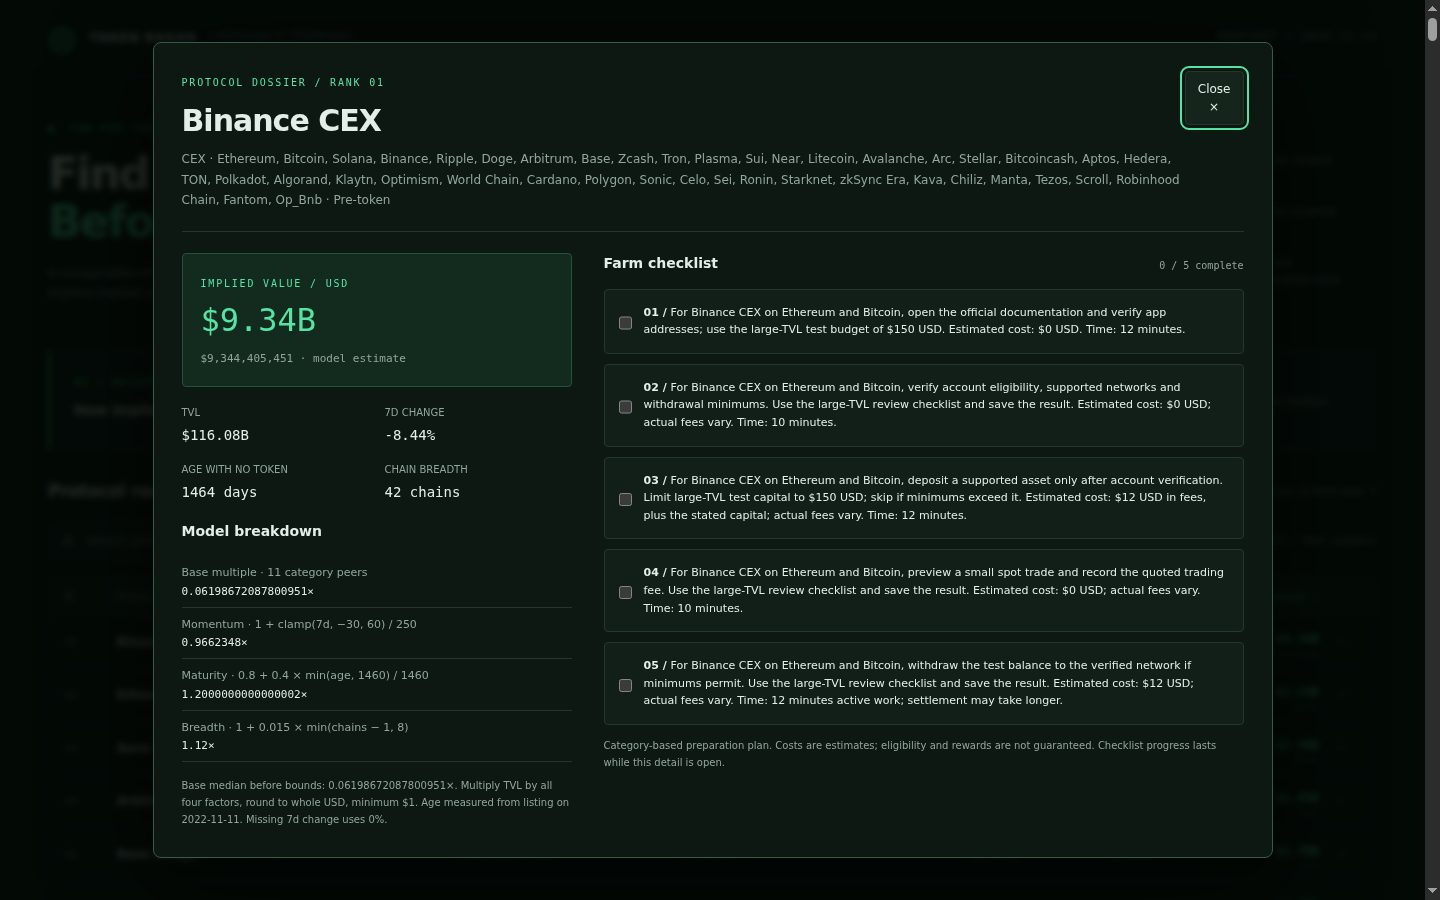
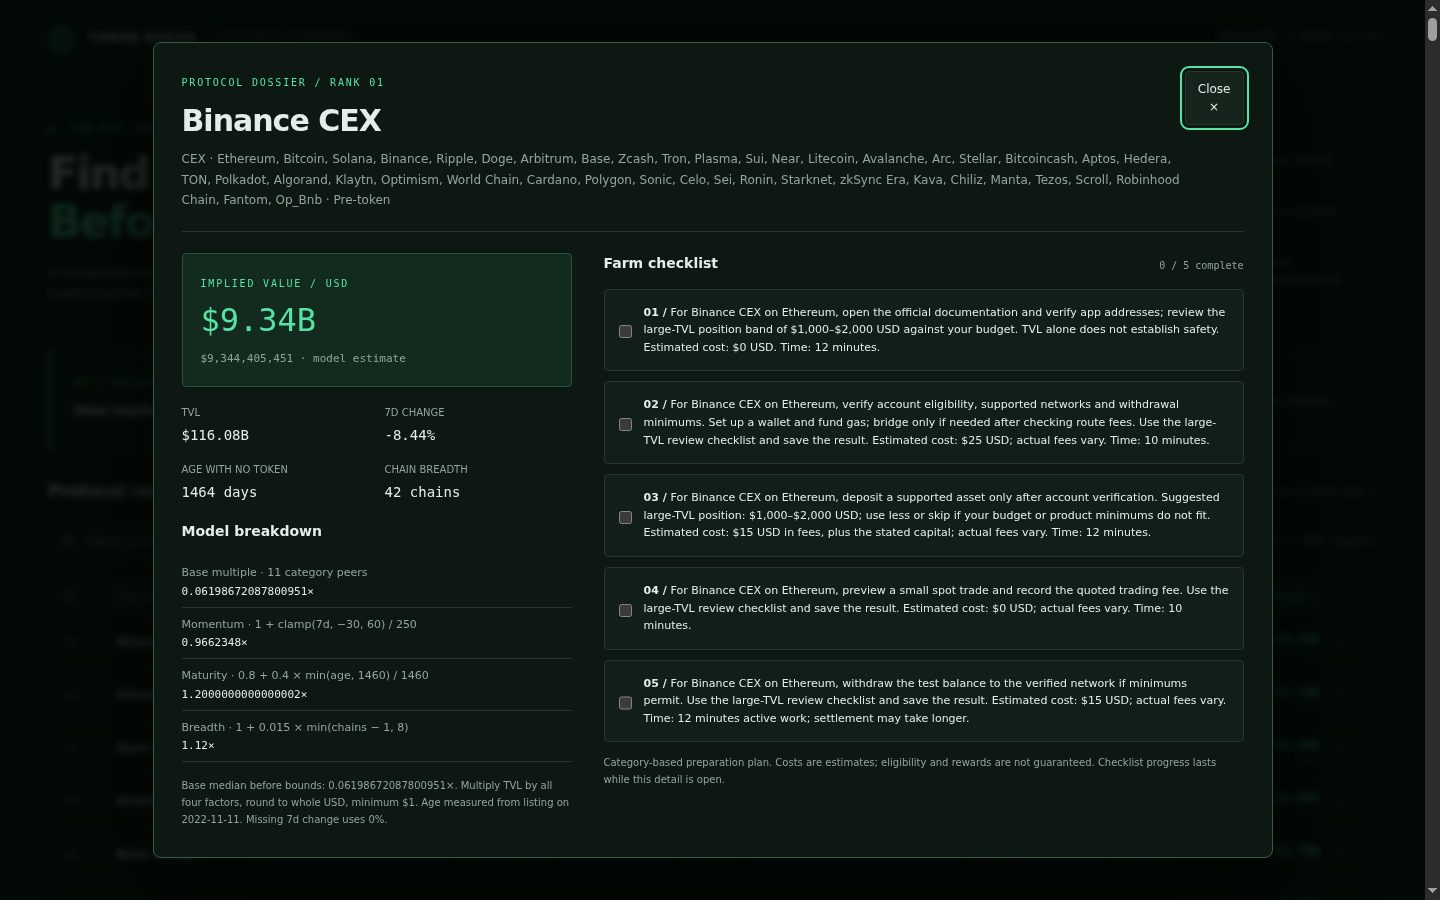
Farm plans: chain-aware costs and TVL position sizing; LICENSE SPDX line

Changed region(s): [[0.4062, 0.6222, 0.8438, 0.8711], [0.4062, 0.3422, 0.8438, 0.4978], [0.4062, 0.5289, 0.8438, 0.5911]]

diff --git a/lib/model.ts b/lib/model.ts
@@ -47,15 +47,26 @@ const PLAYBOOKS: Record<string, string[]> = {
   'Onchain Capital Allocator': ['inspect allocation policies, strategy exposure and redemption terms', 'deposit a supported asset into a reviewed allocation vault', 'compare current allocations with the published mandate', 'redeem the test allocation and record settlement timing'],
 };
 const FALLBACK = ['inspect the documented product, supported assets and exit conditions', 'preview the smallest supported interaction and execute only if its terms are clear', 'verify the transaction receipt and record any resulting position', 'close the test position using the documented exit flow if available'];
+// Static planning allowances in USD, not live quotes; setup includes bridge/gas funding.
+const CHAIN_COSTS = new Map<string, { setup: number; interaction: number }>([
+  ['Ethereum', { setup: 25, interaction: 15 }],
+  ['Arbitrum', { setup: 2, interaction: 0.5 }],
+  ['Optimism', { setup: 2, interaction: 0.5 }],
+  ['Base', { setup: 2, interaction: 0.25 }],
+  ['Polygon', { setup: 1, interaction: 0.1 }],
+  ['Solana', { setup: 0.1, interaction: 0.01 }],
+]);
+const DEFAULT_CHAIN_COST = { setup: 5, interaction: 2 };
 function farmSteps(p: SnapshotProtocol): string[] {
-  const chain = p.chains.slice(0, 2).join(' and ') || 'the network specified in its official documentation';
-  const tier = p.tvl_usd >= 1e9 ? { label: 'large-TVL', capital: 150, fee: 12, time: 12 }
-    : p.tvl_usd >= 5e7 ? { label: 'mid-TVL', capital: 75, fee: 8, time: 15 }
-    : { label: 'small-TVL', capital: 25, fee: 5, time: 20 };
+  const chain = p.chains[0] || 'the network specified in its official documentation';
+  const costs = CHAIN_COSTS.get(chain) ?? DEFAULT_CHAIN_COST;
+  const tier = p.tvl_usd >= 1e9 ? { label: 'large-TVL', position: '$1,000–$2,000', time: 12 }
+    : p.tvl_usd >= 5e7 ? { label: 'mid-TVL', position: '$300–$750', time: 15 }
+    : { label: 'small-TVL', position: '$100–$250', time: 20 };
   const actions = PLAYBOOKS[p.category ?? ''] ?? FALLBACK;
   return [
-    `For ${p.name} on ${chain}, open the official documentation and verify app addresses; use the ${tier.label} test budget of $${tier.capital} USD. Estimated cost: $0 USD. Time: ${tier.time} minutes.`,
-    ...actions.map((action, i) => `For ${p.name} on ${chain}, ${action}. ${i === 1 ? `Limit ${tier.label} test capital to $${tier.capital} USD; skip if minimums exceed it.` : `Use the ${tier.label} review checklist and save the result.`} Estimated cost: $${i === 1 || i === 3 ? tier.fee : 0} USD${i === 1 ? ' in fees, plus the stated capital' : ''}; actual fees vary. Time: ${i === 1 || i === 3 ? tier.time : 10} minutes${i === 3 ? ' active work; settlement may take longer' : ''}.`),
+    `For ${p.name} on ${chain}, open the official documentation and verify app addresses; review the ${tier.label} position band of ${tier.position} USD against your budget. TVL alone does not establish safety. Estimated cost: $0 USD. Time: ${tier.time} minutes.`,
+    ...actions.map((action, i) => `For ${p.name} on ${chain}, ${action}. ${i === 0 ? 'Set up a wallet and fund gas; bridge only if needed after checking route fees. ' : ''}${i === 1 ? `Suggested ${tier.label} position: ${tier.position} USD; use less or skip if your budget or product minimums do not fit.` : `Use the ${tier.label} review checklist and save the result.`} Estimated cost: $${i === 0 ? costs.setup : i === 1 || i === 3 ? costs.interaction : 0} USD${i === 1 ? ' in fees, plus the stated capital' : ''}; actual fees vary. Time: ${i === 1 || i === 3 ? tier.time : 10} minutes${i === 3 ? ' active work; settlement may take longer' : ''}.`),
   ];
 }
 
